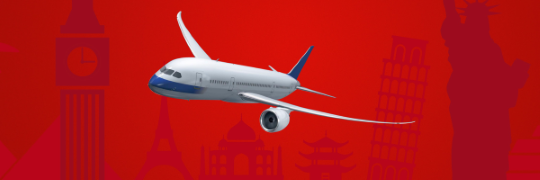
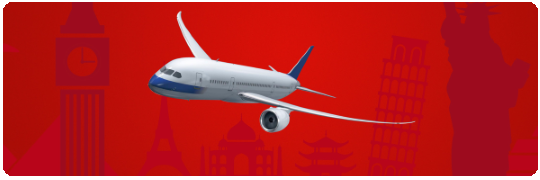
Design changes

Changed region(s): [[0.0, 0.0, 1.0, 1.0]]

diff --git a/app/components/email-preview/emailPreview.html b/app/components/email-preview/emailPreview.html
@@ -180,7 +180,7 @@
                                style="width:435.0pt;background:#ffffff;border-collapse:collapse">
                             <tr>
                                 <td style="padding:0.4cm 0cm 0cm 0.4cm">
-                                    <img src="../../assets/images/header.png" width="548" height="160" style="border-radius: 4pt;" />
+                                    <img src="../../assets/images/header.png" width="540" height="180" style="width: 14.45cm;" />
                                 </td>
                             </tr>
                         </table>
@@ -201,9 +201,22 @@
                             <tr>
                                 <td style="padding:0cm 0cm 0cm 0cm">
                                     <div align="center">
-                                        <h2 style="text-align:left;margin-left: 12pt;font-size:22pt;font-family:Helvetica;color:#333333;mso-fareast-language:EN-US">{{vm.model.highlight.title}}</h2>
                                         <table class="MsoNormalTable" border="0" cellspacing="0" cellpadding="0" width="540"
                                                style="width:405.0pt;border-collapse:collapse">
+                                            <tr>
+                                                <td>
+                                                    <table>
+                                                        <tr>
+                                                            <td>
+                                                                <img src="../../assets/images/glyphicons-52-eye-open.png" width="31" height="17" style="margin-top: 6pt;" />
+                                                            </td>
+                                                            <td>
+                                                                <h2 style="text-align:left;margin-left: 4pt;font-size:22pt;font-family:Helvetica;color:#333333;mso-fareast-language:EN-US">{{vm.model.highlight.title}}</h2>
+                                                            </td>
+                                                        </tr>
+                                                    </table>
+                                                </td>
+                                            </tr>
                                             <tr>
                                                 <td style="padding:0cm 0cm 0cm 0cm;vertical-align: top;">
                                                     <table class="MsoNormalTable" border="0" cellspacing="0" cellpadding="0"
@@ -364,8 +377,17 @@
                                         <table class="MsoNormalTable" border="0" cellspacing="0" cellpadding="0" width="540"
                                                style="width:405.0pt;border-collapse:collapse">
                                             <tr>
-                                                <td style="padding:0cm 0cm 0cm 0cm">
-                                                    <h2 style="text-align:left;font-size:22pt;font-family:Helvetica;color:#333333;mso-fareast-language:EN-US">{{vm.model.releaseStatistics.title}}</h2>
+                                                <td>
+                                                    <table>
+                                                        <tr>
+                                                            <td>
+                                                                <img src="../../assets/images/glyphicons-42-charts.png" width="24" height="24" style="margin-top: 6pt;" />
+                                                            </td>
+                                                            <td>
+                                                                <h2 style="text-align:left;margin-left: 4pt;font-size:22pt;font-family:Helvetica;color:#333333;mso-fareast-language:EN-US">{{vm.model.releaseStatistics.title}}</h2>
+                                                            </td>
+                                                        </tr>
+                                                    </table>
                                                 </td>
                                             </tr>
                                             <tr style="height:7.5pt">
@@ -501,9 +523,22 @@
                             <tr>
                                 <td style="padding:0cm 0cm 0cm 0cm">
                                     <div align="center">
-                                        <h2 style="text-align:left;margin-left: 12pt;font-size:22pt;font-family:Helvetica;color:#333333;mso-fareast-language:EN-US">{{vm.model.anniversaries.title}}</h2>
                                         <table class="MsoNormalTable" border="0" cellspacing="0" cellpadding="0" width="540"
                                                style="width:405.0pt;border-collapse:collapse">
+                                            <tr>
+                                                <td>
+                                                    <table>
+                                                        <tr>
+                                                            <td>
+                                                                <img src="../../assets/images/glyphicons-1-glass.png" width="24" height="24" style="margin-top: 6pt;" />
+                                                            </td>
+                                                            <td>
+                                                                <h2 style="text-align:left;margin-left: 4pt;font-size:22pt;font-family:Helvetica;color:#333333;mso-fareast-language:EN-US">{{vm.model.anniversaries.title}}</h2>
+                                                            </td>
+                                                        </tr>
+                                                    </table>
+                                                </td>
+                                            </tr>
                                             <tr>
                                                 <td style="padding:0cm 0cm 0cm 0cm;vertical-align: top;" ng-if="vm.model.anniversaries.birthdays.personList.length">
                                                     <table class="MsoNormalTable" border="0" cellspacing="0" cellpadding="0"
@@ -540,15 +575,15 @@
                                                                             </td>
                                                                         </tr>
                                                                         <tr>
-                                                                            <td style="padding:0cm 0cm 0cm 0cm;background:#30A0FC; color: #FFFFFF">
+                                                                            <td style="padding:0cm 0cm 0cm 0cm;background:#F2F2F2;">
                                                                                 <table class="MsoNormalTable" border="0"
                                                                                        cellspacing="0" cellpadding="0"
                                                                                        align="left"
-                                                                                       style="background:#30A0FC;border-collapse:collapse;margin-left:-2.25pt;margin-right:-2.25pt;font-family: Helvetica;">
+                                                                                       style="background:#F2F2F2;border-collapse:collapse;margin-left:-2.25pt;margin-right:-2.25pt;font-family: Helvetica;">
                                                                                     <tr style="height:22.5pt">
                                                                                         <td style="padding:10.5pt 13.5pt 10.5pt 0pt;height:22.5pt;">
                                                                                             <ul style="padding-left: 23.5pt;font-family: Helvetica;">
-                                                                                                <li style="width: 160pt; word-wrap: break-word; color: white;font-family: Helvetica;" ng-repeat="person in vm.model.anniversaries.birthdays.personList">{{person.text}}</li>
+                                                                                                <li style="width: 160pt; word-wrap: break-word; font-family: Helvetica;" ng-repeat="person in vm.model.anniversaries.birthdays.personList">{{person.text}}</li>
                                                                                             </ul>
                                                                                         </td>
                                                                                     </tr>
@@ -596,15 +631,15 @@
                                                                             </td>
                                                                         </tr>
                                                                         <tr>
-                                                                            <td style="padding:0cm 0cm 0cm 0cm;background:#30A0FC; color: #FFFFFF">
+                                                                            <td style="padding:0cm 0cm 0cm 0cm;background:#F2F2F2;">
                                                                                 <table class="MsoNormalTable" border="0"
                                                                                        cellspacing="0" cellpadding="0"
                                                                                        align="left"
-                                                                                       style="background:#30A0FC;border-collapse:collapse;margin-left:-2.25pt;margin-right:-2.25pt">
+                                                                                       style="background:#F2F2F2;border-collapse:collapse;margin-left:-2.25pt;margin-right:-2.25pt">
                                                                                     <tr style="height:22.5pt">
                                                                                         <td style="padding:10.5pt 13.5pt 10.5pt 0pt;height:22.5pt;">
                                                                                             <ul style="padding-left: 23.5pt;font-family: Helvetica;">
-                                                                                                <li style="width: 160pt;word-wrap: break-word;color: white;font-family: Helvetica;" ng-repeat="person in vm.model.anniversaries.landingAnniversaries.personList">{{person.text}}</li>
+                                                                                                <li style="width: 160pt;word-wrap: break-word;font-family: Helvetica;" ng-repeat="person in vm.model.anniversaries.landingAnniversaries.personList">{{person.text}}</li>
                                                                                             </ul>
                                                                                         </td>
                                                                                     </tr>
@@ -661,9 +696,24 @@
                             <tr>
                                 <td style="padding:0cm 0cm 0cm 0cm">
                                     <div align="center">
+                                        <img src="../../assets/images/glyphicons-738-pictures.png" width="24" height="24" style="float: left; margin-top: 2pt;margin-right: 2pt;margin-left:12pt;" />
                                         <h2 style="text-align:left;margin-left: 12pt;font-size:22pt;font-family:Helvetica;color:#333333;mso-fareast-language:EN-US">{{vm.model.actualThings.title}}</h2>
                                         <table class="MsoNormalTable" border="0" cellspacing="0" cellpadding="0" width="540"
                                                style="width:405.0pt;border-collapse:collapse">
+                                            <tr>
+                                                <td>
+                                                    <table>
+                                                        <tr>
+                                                            <td>
+                                                                <img src="../../assets/images/glyphicons-738-pictures.png" width="24" height="24" style="margin-top: 6pt;" />
+                                                            </td>
+                                                            <td>
+                                                                <h2 style="text-align:left;margin-left: 4pt;font-size:22pt;font-family:Helvetica;color:#333333;mso-fareast-language:EN-US">{{vm.model.actualThings.title}}</h2>
+                                                            </td>
+                                                        </tr>
+                                                    </table>
+                                                </td>
+                                            </tr>
                                             <tr>
                                                 <td style="padding:0cm 0cm 0cm 0cm;vertical-align: top;">
                                                     <table class="MsoNormalTable" border="0" cellspacing="0" cellpadding="0" ng-repeat="actualThing in vm.model.actualThings.list"
